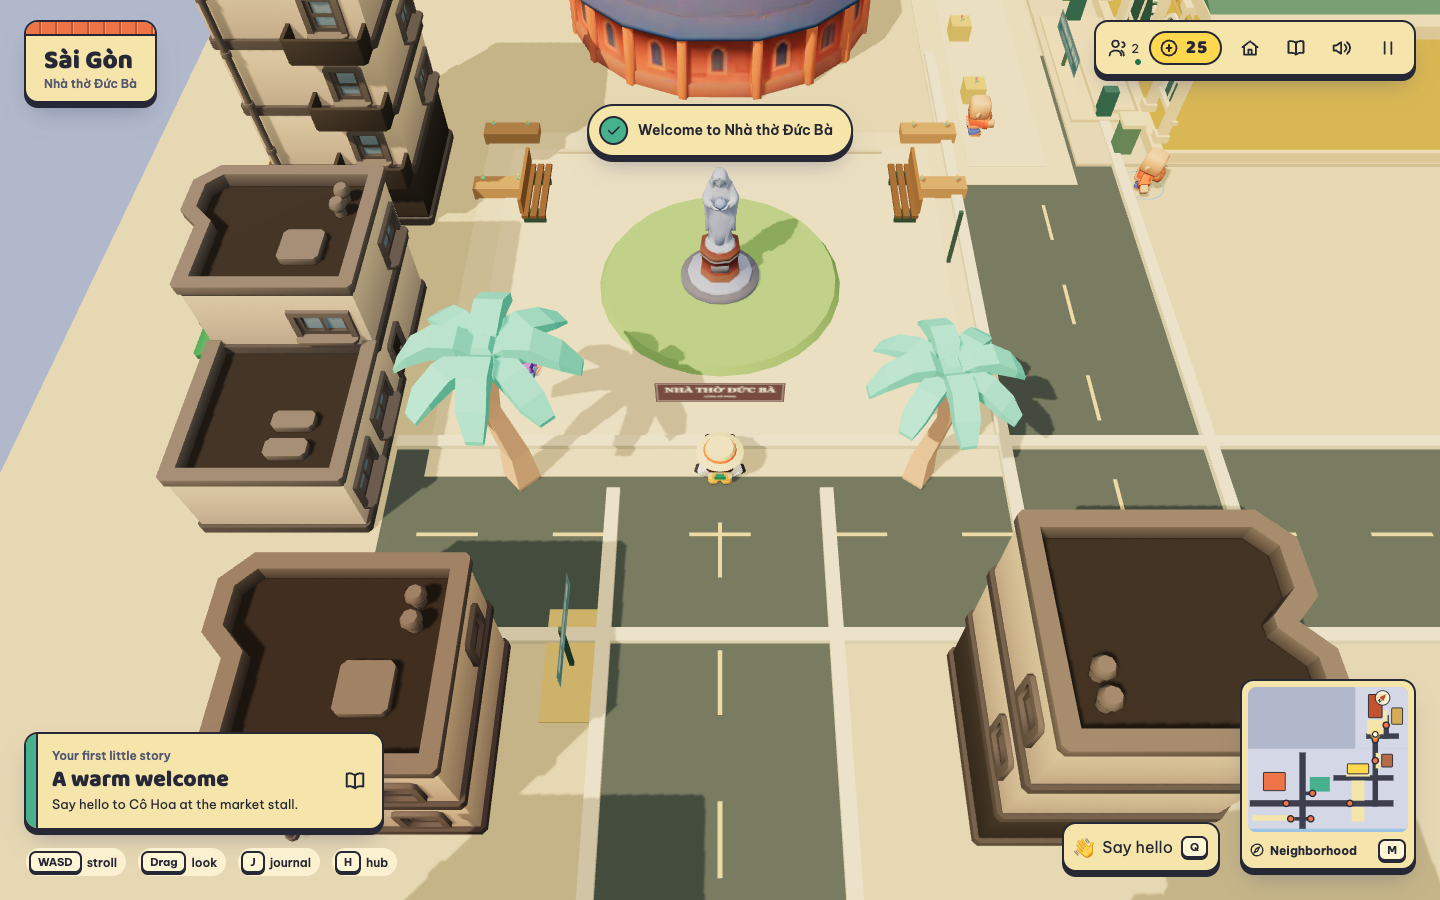
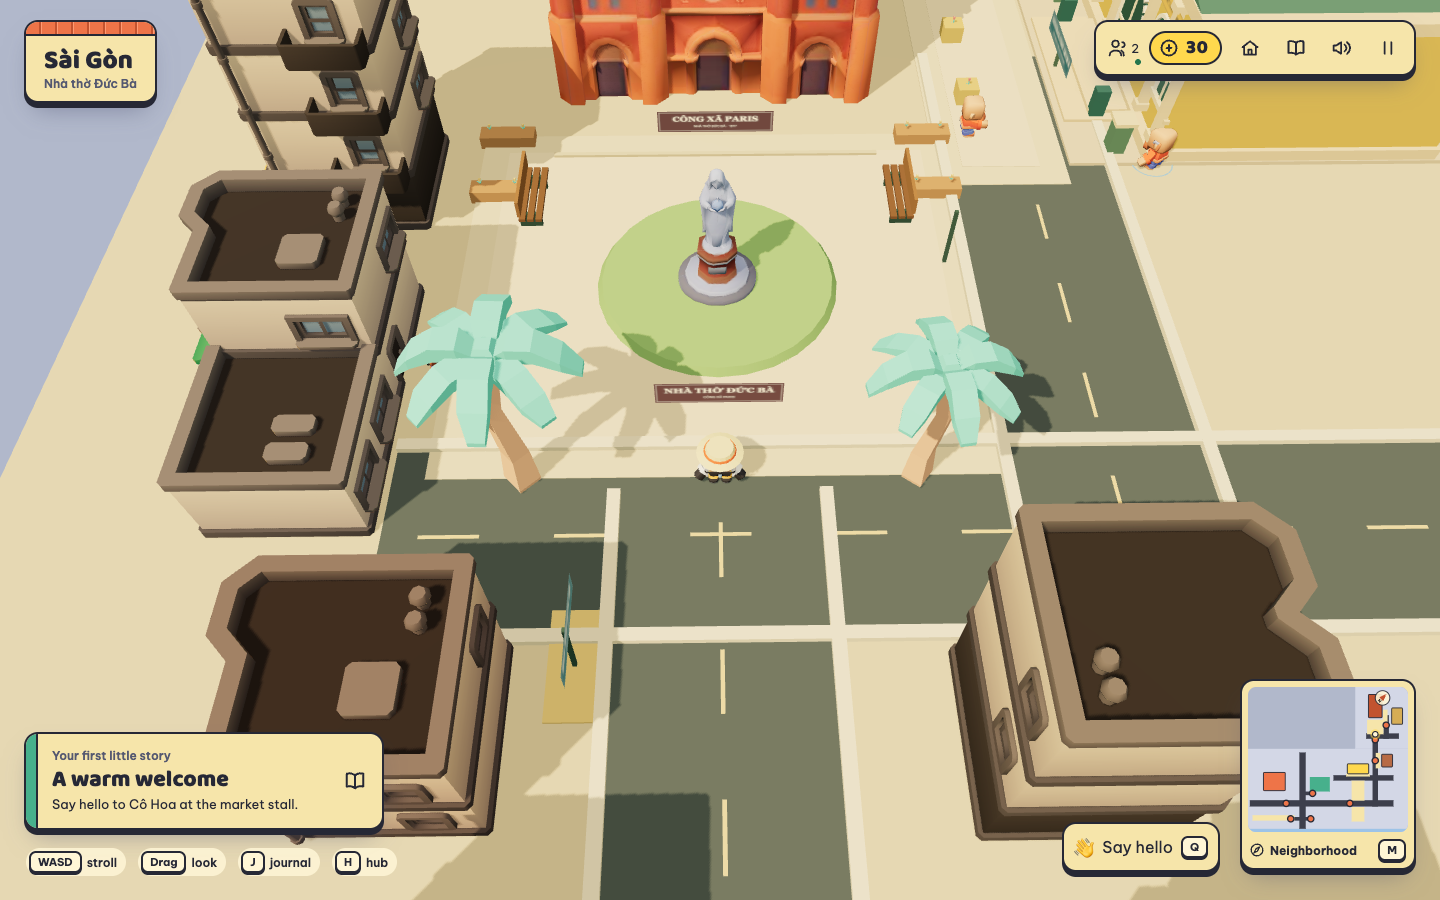
Turn cathedral entrance toward Cong Xa Paris

diff --git a/apps/client/src/world/civic.tsx b/apps/client/src/world/civic.tsx
@@ -26,9 +26,9 @@ export function CivicDistrict() {
       <Model
         path={cathedral.model}
         position={cathedral.position}
-        // The GLB's clock-and-entrance façade faces local -Z; Công xã Paris is
-        // south of the model in world +Z, so turn the entrance toward the square.
-        rotation={[0, Math.PI, 0]}
+        // The runtime asset's clock-and-entrance façade faces local +Z;
+        // Công xã Paris is south of the model in world +Z.
+        rotation={[0, 0, 0]}
         scale={cathedral.scale}
       />
       <CongXaParis />
